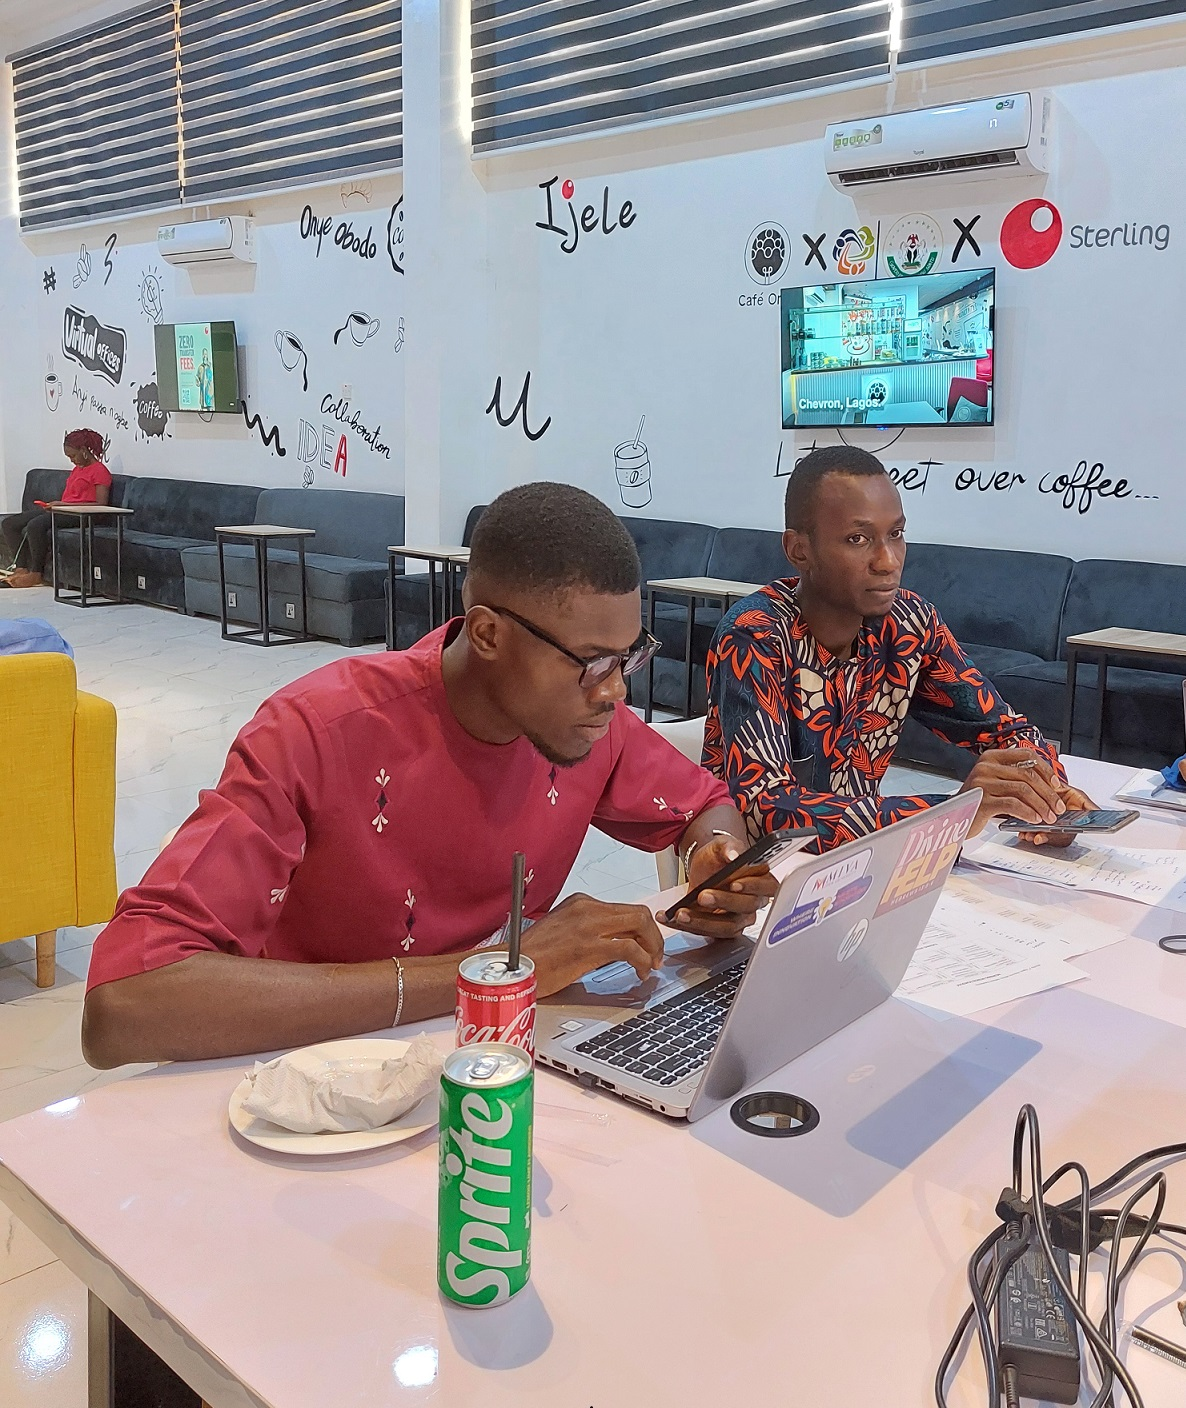
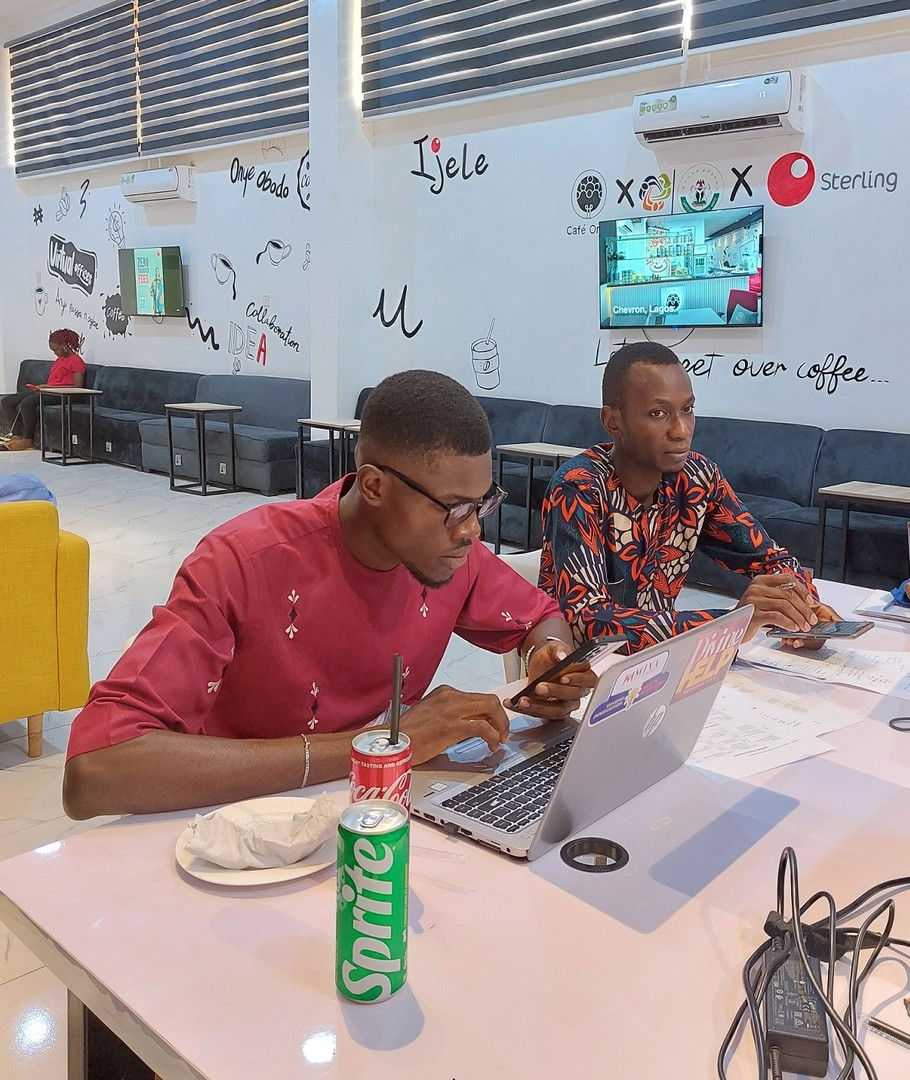
version 0.0.1 Completed

diff --git a/compress_images_windows.py b/compress_images_windows.py
@@ -1,0 +1,174 @@
+#!/usr/bin/env python3
+"""
+Windows Image Compression Script for NUVIC5M Project
+Compresses JPEG images while maintaining good quality
+Compatible with Windows Command Prompt
+"""
+
+import os
+import sys
+import shutil
+from pathlib import Path
+
+def check_pillow():
+    """Check if Pillow is installed"""
+    try:
+        from PIL import Image, ImageOps
+        return True
+    except ImportError:
+        print("❌ PIL (Pillow) not available.")
+        print("📦 Install with: pip install Pillow")
+        print("🔄 Then run this script again.")
+        return False
+
+def get_file_size_mb(file_path):
+    """Get file size in MB"""
+    return os.path.getsize(file_path) / (1024 * 1024)
+
+def compress_image(input_path, output_path=None, quality=85, max_width=1920, max_height=1080):
+    """
+    Compress a JPEG image for web use
+    
+    Args:
+        input_path: Path to input image
+        output_path: Path for output (if None, overwrites input)
+        quality: JPEG quality (1-100, higher = better quality)
+        max_width: Maximum width in pixels
+        max_height: Maximum height in pixels
+    """
+    from PIL import Image
+    
+    if output_path is None:
+        output_path = input_path
+    
+    try:
+        with Image.open(input_path) as img:
+            # Convert to RGB if necessary
+            if img.mode in ('RGBA', 'P'):
+                img = img.convert('RGB')
+            
+            # Get original dimensions and size
+            original_width, original_height = img.size
+            original_size_mb = get_file_size_mb(input_path)
+            
+            # Resize if too large
+            resized = False
+            if img.width > max_width or img.height > max_height:
+                img.thumbnail((max_width, max_height), Image.Resampling.LANCZOS)
+                resized = True
+            
+            # Save with compression
+            img.save(output_path, 'JPEG', quality=quality, optimize=True, progressive=True)
+            
+            # Get new size
+            new_size_mb = get_file_size_mb(output_path)
+            reduction = ((original_size_mb - new_size_mb) / original_size_mb) * 100
+            
+            # Print results
+            print(f"✅ {os.path.basename(input_path)}")
+            if resized:
+                print(f"   📐 Resized: {original_width}x{original_height} → {img.width}x{img.height}")
+            print(f"   📊 Size: {original_size_mb:.1f}MB → {new_size_mb:.1f}MB")
+            print(f"   💾 Saved: {reduction:.1f}% ({original_size_mb - new_size_mb:.1f}MB)")
+            print()
+            
+            return new_size_mb, reduction
+            
+    except Exception as e:
+        print(f"❌ Error compressing {input_path}: {e}")
+        return None, 0
+
+def main():
+    """Main compression function"""
+    print("🖼  NUVIC5M Image Compression Tool")
+    print("=" * 50)
+    
+    # Check if Pillow is available
+    if not check_pillow():
+        return
+    
+    # Path to images directory
+    script_dir = Path(__file__).parent
+    images_dir = script_dir / "assets" / "images"
+    
+    if not images_dir.exists():
+        print(f"❌ Directory not found: {images_dir}")
+        print("💡 Make sure you're running this script from the project root directory")
+        return
+    
+    # Get all JPEG files
+    jpeg_files = list(images_dir.glob("*.jpg")) + list(images_dir.glob("*.jpeg"))
+    
+    if not jpeg_files:
+        print("❌ No JPEG files found!")
+        return
+    
+    print(f"📁 Found {len(jpeg_files)} JPEG files")
+    print()
+    
+    # Create backup directory
+    backup_dir = images_dir / "originals_backup"
+    backup_dir.mkdir(exist_ok=True)
+    
+    # Sort files by size (largest first)
+    jpeg_files.sort(key=lambda x: os.path.getsize(x), reverse=True)
+    
+    total_original_size = 0
+    total_new_size = 0
+    compressed_count = 0
+    
+    for img_file in jpeg_files:
+        file_size_mb = get_file_size_mb(img_file)
+        total_original_size += file_size_mb
+        
+        # Skip if already very small
+        if file_size_mb < 0.5:  # Skip files smaller than 500KB
+            print(f"⏭  Skipping {img_file.name} (already small: {file_size_mb:.1f}MB)")
+            total_new_size += file_size_mb
+            continue
+        
+        # Create backup
+        backup_path = backup_dir / img_file.name
+        if not backup_path.exists():
+            shutil.copy2(img_file, backup_path)
+            print(f"💾 Backed up {img_file.name}")
+        
+        # Determine compression settings based on file size
+        if file_size_mb > 5:
+            quality = 80  # More aggressive compression for very large files
+            max_width, max_height = 1920, 1080
+        elif file_size_mb > 2:
+            quality = 85  # Moderate compression
+            max_width, max_height = 1920, 1080
+        else:
+            quality = 90  # Light compression
+            max_width, max_height = 1920, 1080
+        
+        # Compress the image
+        new_size, reduction = compress_image(
+            img_file, 
+            quality=quality, 
+            max_width=max_width, 
+            max_height=max_height
+        )
+        
+        if new_size is not None:
+            total_new_size += new_size
+            compressed_count += 1
+    
+    # Print summary
+    print("=" * 50)
+    print("📊 COMPRESSION SUMMARY")
+    print("=" * 50)
+    print(f"📁 Files processed: {compressed_count}")
+    print(f"📊 Total original size: {total_original_size:.1f}MB")
+    print(f"📊 Total new size: {total_new_size:.1f}MB")
+    print(f"💾 Total saved: {total_original_size - total_new_size:.1f}MB")
+    print(f"📈 Overall reduction: {((total_original_size - total_new_size) / total_original_size) * 100:.1f}%")
+    print(f"💾 Backups saved to: {backup_dir}")
+    print()
+    print("✅ Compression complete!")
+    print("🌐 Your website will now load much faster!")
+
+if __name__ == "__main__":
+    main()

diff --git a/compress_images.py b/compress_images.py
@@ -1,0 +1,106 @@
+#!/usr/bin/env python3
+"""
+Image Compression Script for NUVIC5M Project
+Compresses JPEG images while maintaining good quality
+"""
+
+import os
+import sys
+from pathlib import Path
+
+try:
+    from PIL import Image, ImageOps
+    PIL_AVAILABLE = True
+except ImportError:
+    PIL_AVAILABLE = False
+    print("PIL (Pillow) not available. Install with: pip install Pillow")
+    sys.exit(1)
+
+def compress_image(input_path, output_path=None, quality=85, max_width=1920, max_height=1080):
+    """
+    Compress a JPEG image
+    
+    Args:
+        input_path: Path to input image
+        output_path: Path for output (if None, overwrites input)
+        quality: JPEG quality (1-100, higher = better quality)
+        max_width: Maximum width in pixels
+        max_height: Maximum height in pixels
+    """
+    if output_path is None:
+        output_path = input_path
+    
+    try:
+        with Image.open(input_path) as img:
+            # Convert to RGB if necessary
+            if img.mode in ('RGBA', 'P'):
+                img = img.convert('RGB')
+            
+            # Get original size
+            original_size = os.path.getsize(input_path)
+            
+            # Resize if too large
+            if img.width > max_width or img.height > max_height:
+                img.thumbnail((max_width, max_height), Image.Resampling.LANCZOS)
+                print(f"Resized {input_path} to {img.width}x{img.height}")
+            
+            # Save with compression
+            img.save(output_path, 'JPEG', quality=quality, optimize=True)
+            
+            # Get new size
+            new_size = os.path.getsize(output_path)
+            reduction = ((original_size - new_size) / original_size) * 100
+            
+            print(f"Compressed {input_path}:")
+            print(f"  Original: {original_size/1024/1024:.1f}MB")
+            print(f"  New: {new_size/1024/1024:.1f}MB")
+            print(f"  Reduction: {reduction:.1f}%")
+            print()
+            
+    except Exception as e:
+        print(f"Error compressing {input_path}: {e}")
+
+def main():
+    # Path to images directory
+    images_dir = Path("assets/images")
+    
+    if not images_dir.exists():
+        print("assets/images directory not found!")
+        return
+    
+    # Get all JPEG files
+    jpeg_files = list(images_dir.glob("*.jpg")) + list(images_dir.glob("*.jpeg"))
+    
+    if not jpeg_files:
+        print("No JPEG files found!")
+        return
+    
+    print(f"Found {len(jpeg_files)} JPEG files to compress...")
+    print()
+    
+    # Create backup directory
+    backup_dir = images_dir / "originals"
+    backup_dir.mkdir(exist_ok=True)
+    
+    for img_file in jpeg_files:
+        # Skip if already very small
+        file_size = os.path.getsize(img_file)
+        if file_size < 500 * 1024:  # Skip files smaller than 500KB
+            print(f"Skipping {img_file.name} (already small: {file_size/1024:.0f}KB)")
+            continue
+        
+        # Create backup
+        backup_path = backup_dir / img_file.name
+        if not backup_path.exists():
+            import shutil
+            shutil.copy2(img_file, backup_path)
+            print(f"Backed up {img_file.name}")
+        
+        # Compress the image
+        compress_image(img_file, quality=85, max_width=1920, max_height=1080)
+    
+    print("Compression complete!")
+    print(f"Original files backed up to: {backup_dir}")
+
+if __name__ == "__main__":
+    main()
